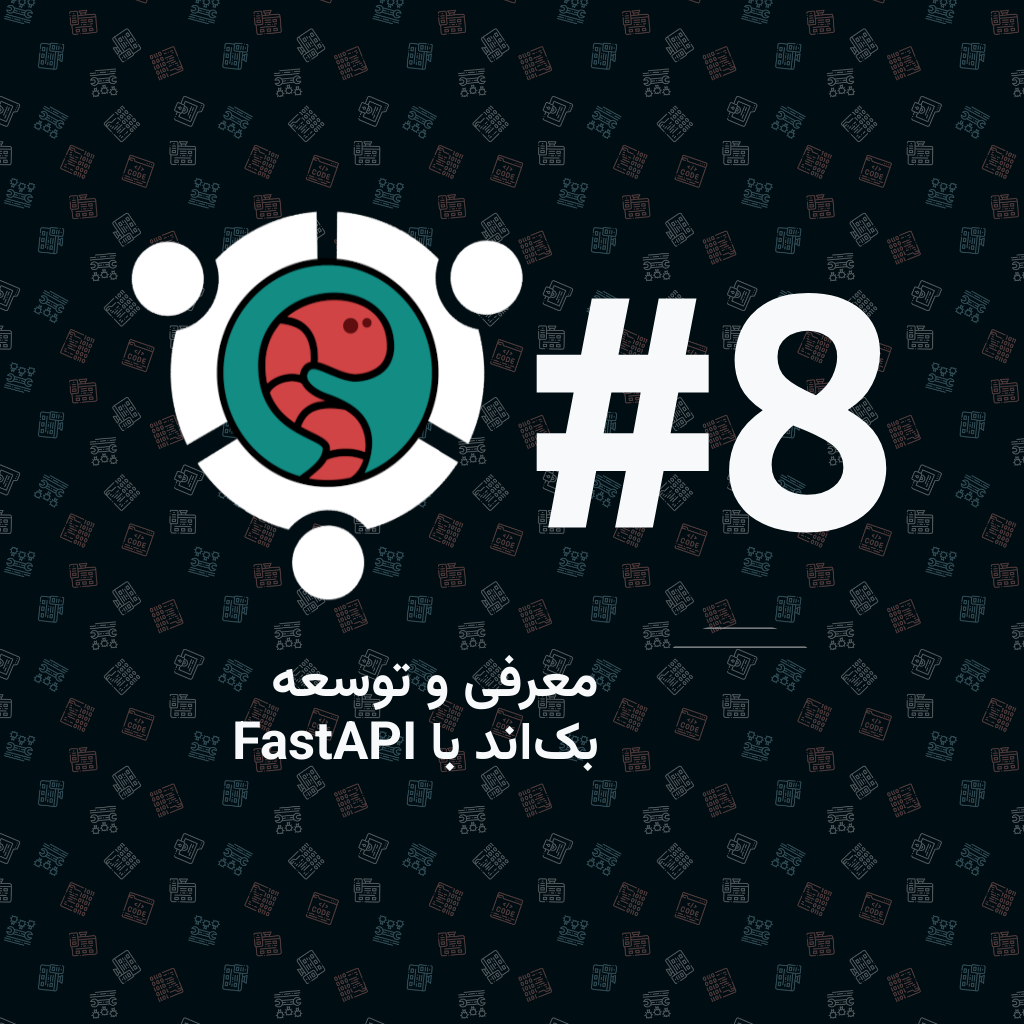
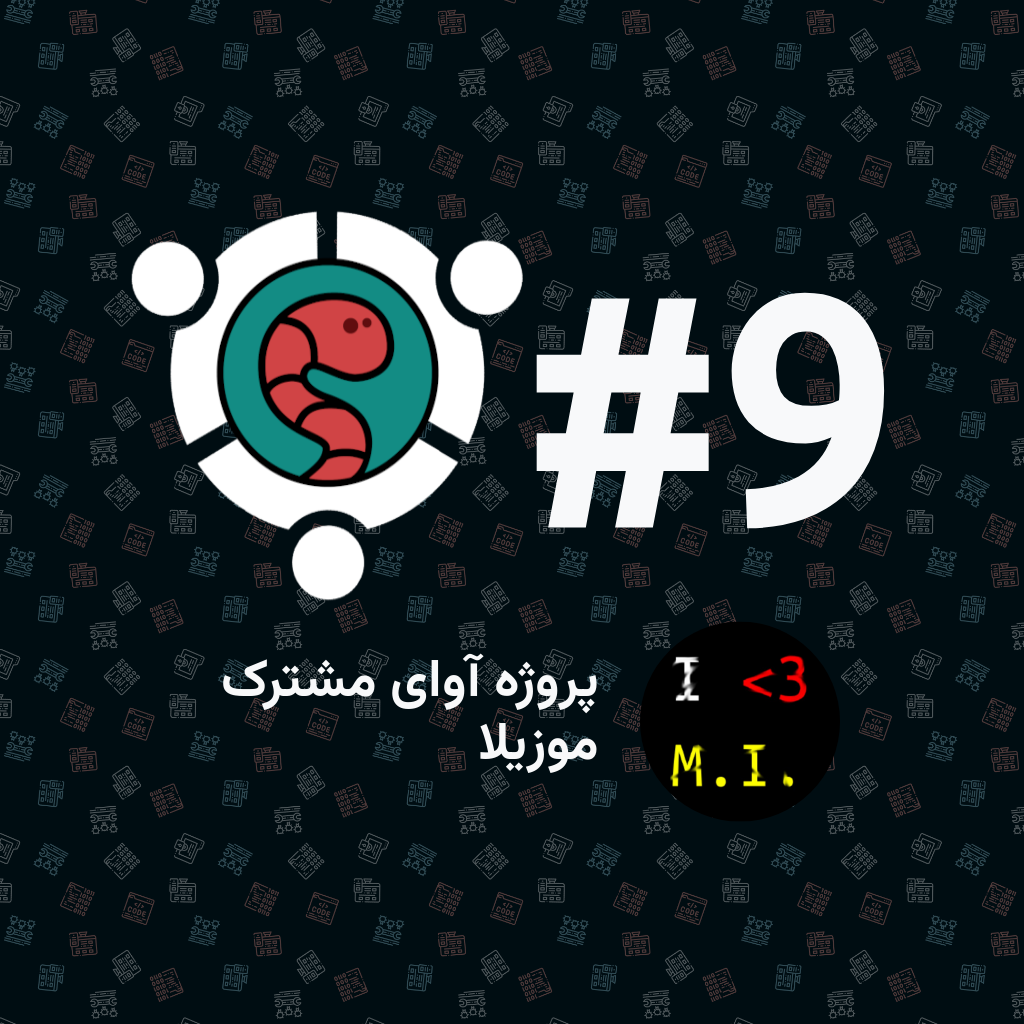
deploy: 588ced6b0d4390dca3ae3d8af6f02176f9d1f351

diff --git a/index.html b/index.html
@@ -4,9 +4,9 @@
 <head>
     <meta charset="UTF-8">
     <meta name="viewport" content="width=device-width, initial-scale=1.0">
-    <meta property="og:title" content="#8 - دورهمی کرمهای کامپیوتر" />
+    <meta property="og:title" content="#9 - دورهمی کرمهای کامپیوتر" />
     <meta name="og:description" content="دورهمی های کرمهای کامپیوتر - جمعه هر هفته ساعت شش
- این هفته با ارائه «بهنام سیمجو» درباره معرفی و توسعه بکاند با FastAPI">
+ این هفته با ارائه «فاروق کریمیزاده» درباره پروژه آوای مشترک موزیلا">
     <meta property="og:url" content="https://meet.pcworms.ir" />
     <meta property="og:image" content="https://meet.pcworms.ir/preview.png" />
     <title>دورهمی های کرم های کامپیوتر</title>
@@ -20,7 +20,7 @@
         rel="stylesheet">
     <script>
         // Set the date we're counting down to
-        var countDownDate = new Date("Dec 01, 2023 18:00:00").getTime();
+        var countDownDate = new Date("Dec 08, 2023 18:00:00").getTime();
         var finishDate = countDownDate + (1.5 * 3600 * 1000);
 
         // Update the count down every 1 second
@@ -84,7 +84,7 @@
     <div class="container-fluid">
         <div class="row mt-2 text-center">
             <div class="col d-flex  align-items-center justify-content-center">
-                <span class="big-text d-inline-block">#8</span>
+                <span class="big-text d-inline-block">#9</span>
                 <img class="logo" src="./assets/meeting-logo.png" alt="">
             </div>
         </div>
@@ -97,12 +97,12 @@
         <div class="row justify-content-center">
             <div class="col-12 col-sm-10 col-md-8 p-2 subject-bg">
                 <div class=" row align-items-center">
-                    <div class="col-auto float-start text-center"><img src="https:&#x2F;&#x2F;github.com&#x2F;pcworms&#x2F;meetings-banner&#x2F;blob&#x2F;df4d6d5cfff1a10f28cd9b8342dfd90c452ea76e&#x2F;template&#x2F;assets&#x2F;avatars&#x2F;bsimjoo.png" class="profile"></div>
+                    <div class="col-auto float-start text-center"><img src="assets&#x2F;avatars&#x2F;farooqkz.png" class="profile"></div>
                     <div class="col">
                         <small class="speaker d-block">
-                            این هفته با «بهنام سیمجو» درباره:
+                            این هفته با «فاروق کریمیزاده» درباره:
                         </small>
-                        <h2 class="subject">معرفی و توسعه بکاند با FastAPI</h2>
+                        <h2 class="subject">پروژه آوای مشترک موزیلا</h2>
                         <div class="text-center">
                             <small class="time" id="counter"></small>
                         </div>

diff --git a/preview.html b/preview.html
@@ -21,16 +21,16 @@
         <div class="row mt-2 text-center">
             <div class="col d-flex  align-items-center justify-content-center">
                 <img class="logo" src="./assets/meeting-logo.png" alt="">
-                <span class="big-text d-inline-block">#8</span>
+                <span class="big-text d-inline-block">#9</span>
             </div>
         </div>
         <div class="row justify-content-center">
             <div class="col-12 col-sm-10 col-md-8 p-2"">
                 <div class=" row align-items-center">
                 <div class="col">
-                    <h1 class="subject" dir="rtl">معرفی و توسعه بکاند با FastAPI</h1>
+                    <h1 class="subject" dir="rtl">پروژه آوای مشترک موزیلا</h1>
                 </div>
-                <div class="col-auto float-start text-center"><img src="https:&#x2F;&#x2F;github.com&#x2F;pcworms&#x2F;meetings-banner&#x2F;blob&#x2F;df4d6d5cfff1a10f28cd9b8342dfd90c452ea76e&#x2F;template&#x2F;assets&#x2F;avatars&#x2F;bsimjoo.png" class="profile"></div>
+                <div class="col-auto float-start text-center"><img src="assets&#x2F;avatars&#x2F;farooqkz.png" class="profile"></div>
             </div>
         </div>
     </div>
